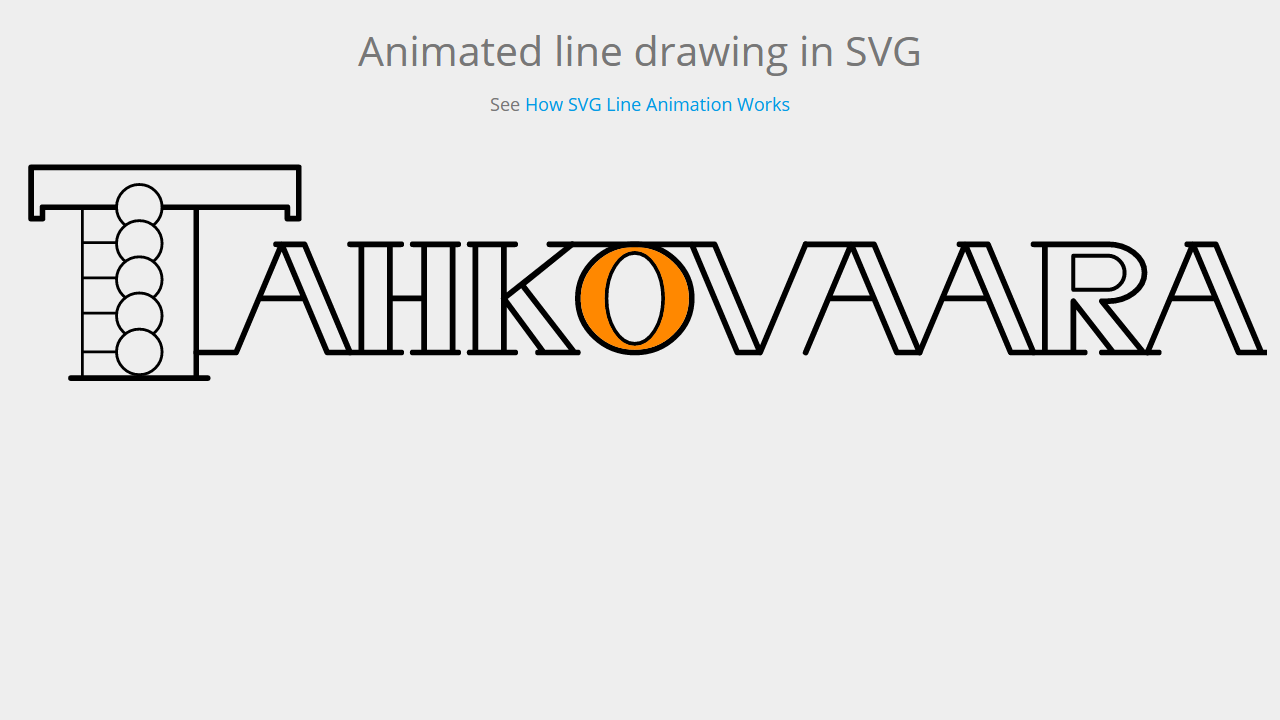
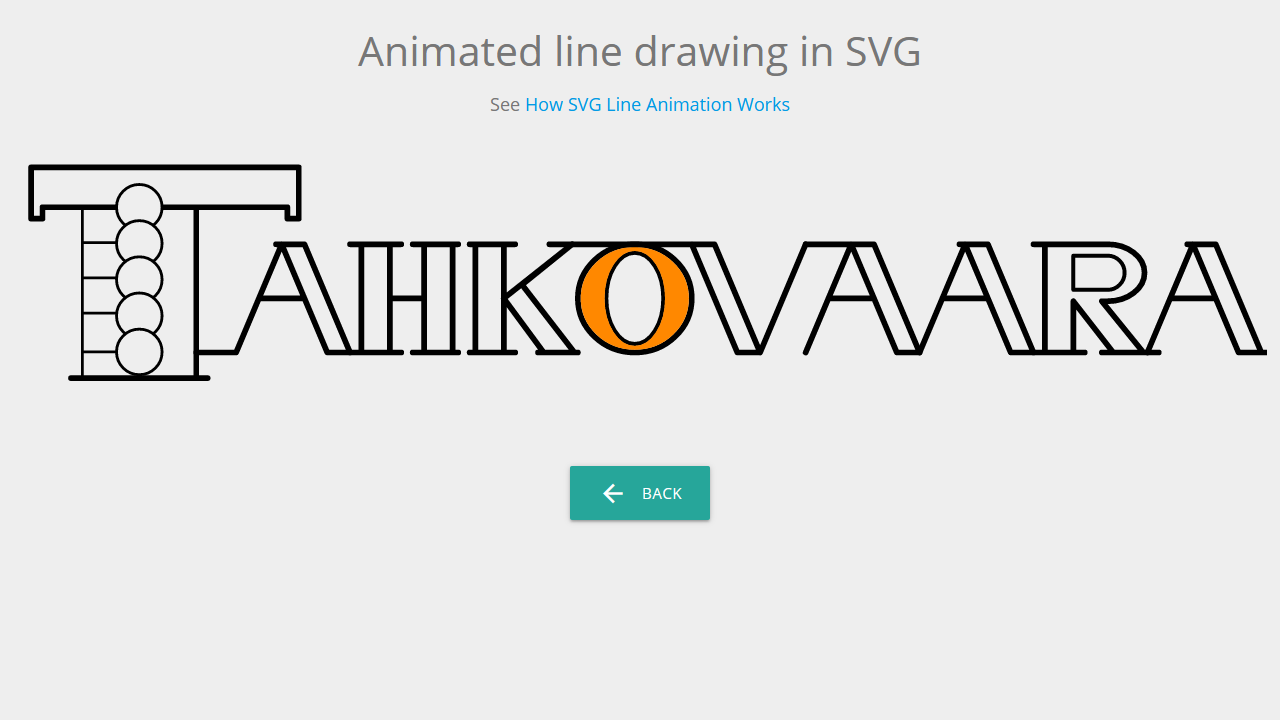
Trying to fix letter-flash problem with mobile device part 4.

Changed region(s): [[0.4375, 0.6417, 0.5625, 0.7333]]

diff --git a/web/Tahkovaara/index.html b/web/Tahkovaara/index.html
@@ -26,6 +26,20 @@
 		<section class="container">
 			<div id="content"></div>
 		</section>
+		
+		<section class="container">
+			<div class="row">
+				<div class="col s12 center">
+					<p>&nbsp;</p>
+					<p style="font-style:italic; color:#888;">It takes approximately 15 seconds to run this animation.</p>
+					<p id="back-button-placeholder"></p>
+					<!--
+					<a href="../index.html#SVGAnimation" class="waves-effect waves-light btn-large"><i class="material-icons left">arrow_back</i>BACK</a>
+					-->
+				</div>
+			</div>
+		</section>
+		
 		<!--
 		<script
 			src="https://code.jquery.com/jquery-3.4.1.min.js"

diff --git a/web/Tahkovaara/View.js b/web/Tahkovaara/View.js
@@ -101,6 +101,12 @@ export default class View {
 			}, 7000);
 			setTimeout(() => { 
 				this.setDashArrayLength(svgObject, 'fifth-letter-fill', '#f80', 7);
+				
+				// Add the "BACK"-button after 1 second, then the animation is ready!
+				setTimeout(() => { 
+					$('#back-button-placeholder').empty().append('<a href="../index.html#SVGAnimation" class="waves-effect waves-light btn-large"><i class="material-icons left">arrow_back</i>BACK</a>');
+				}, 1000);
+				
 			}, 14000);
 			
 			setTimeout(() => { 

diff --git a/web/index.html b/web/index.html
@@ -378,9 +378,9 @@
 				<div class="col s12 m6">
 					<div class="card" id="SVGAnimation">
 						<div class="card-image">
-							<a href="./Tahkovaara/index.html" target="_blank" rel="noopener" aria-describedby="new-window-2">
+							<a href="./Tahkovaara/index.html">
 								<img src="./img/SVGAnimation.png">
-								<span class="my-card-title">Click to view <i class="material-icons">open_in_new</i></span>
+								<span class="my-card-title">Click to view</span>
 							</a>
 						</div>
 					</div>
